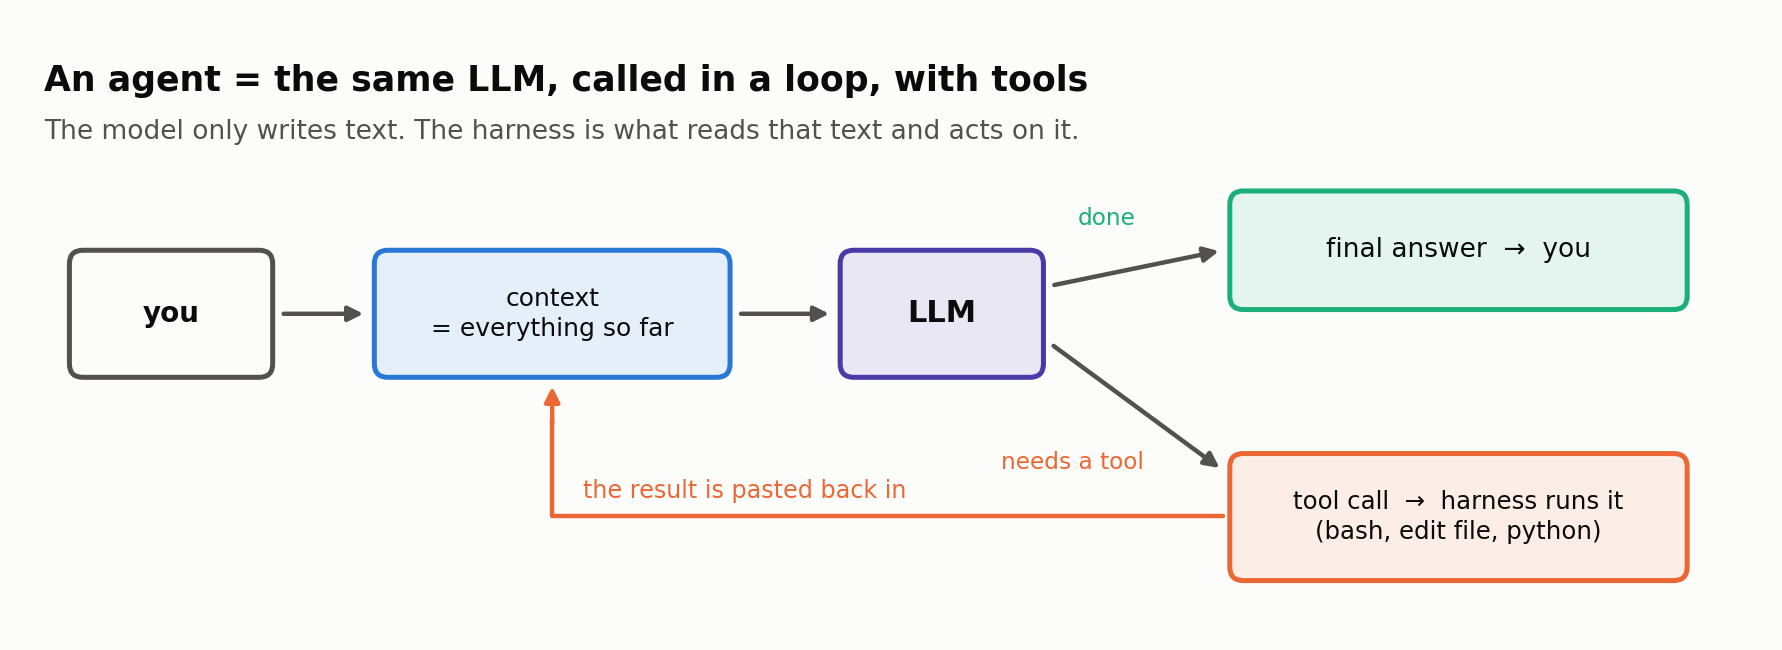
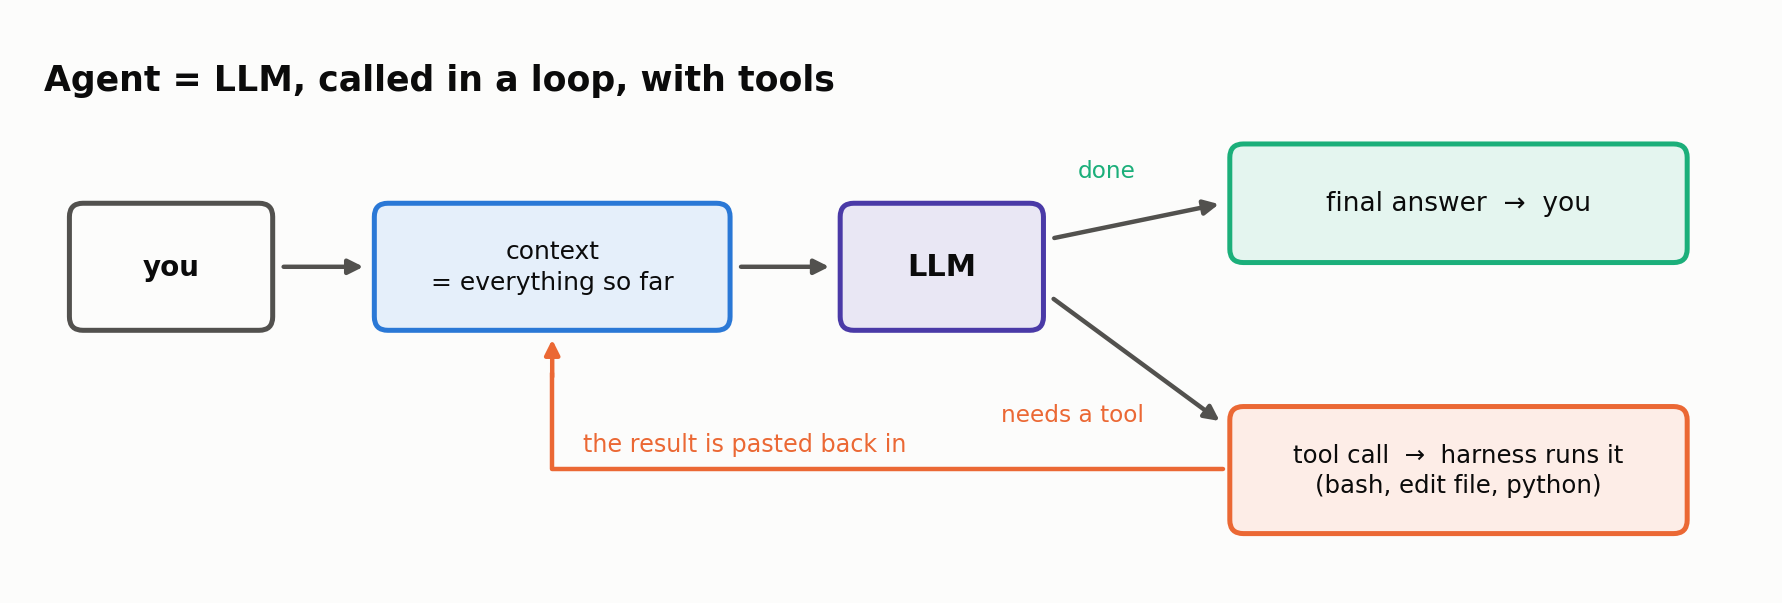
finalising 1st lecture

diff --git a/1st_lecture/make_figures.py b/1st_lecture/make_figures.py
@@ -110,14 +110,13 @@ def save(fig, name):
 # 1. next-token prediction
 # ======================================================================
 def fig_next_token():
-    fig, ax = canvas(11, 5.6)
+    fig, ax = canvas(11, 5.25)
     top = ax.get_ylim()[1]
-    title(ax, "Guessing the next token",
-          "…and then it does it again, with its own guess appended to the input.")
+    title(ax, "Guessing the next token")
 
     toks = ["The", " virial", " theorem", " relates", " kinetic", " and"]
     x = 6.0
-    y = top - 15
+    y = top - 12
     for t in toks:
         w = 2.6 + 1.62 * len(t)
         box(ax, x, y, w, 4.4, t.strip(), color=BLUE, fs=9.5)
@@ -293,10 +292,9 @@ def fig_dense_vs_moe():
 # 4. the context window
 # ======================================================================
 def fig_context_window():
-    fig, ax = canvas(11, 3.75)
+    fig, ax = canvas(11, 3.55)
     top = ax.get_ylim()[1]
-    title(ax, "The context window: everything the model can see, right now",
-          "One API call = one flat pile of tokens. There is no memory anywhere else.")
+    title(ax, "The context window: everything the model can see, right now")
 
     segs = [
         ("system prompt\n& rules", 7, BLUE),
@@ -476,10 +474,9 @@ def fig_tokens():
 # 9. the agent loop
 # ======================================================================
 def fig_agent_loop():
-    fig, ax = canvas(11, 3.65)
+    fig, ax = canvas(11, 3.35)
     top = ax.get_ylim()[1]
-    title(ax, "An agent = the same LLM, called in a loop, with tools",
-          "The model only writes text. The harness is what reads that text and acts on it.")
+    title(ax, "Agent = LLM, called in a loop, with tools")
 
     y1 = 13.5
     box(ax, 1.5, y1, 12, 7.5, "you", color=INK2, face=SURFACE, fs=10, weight="bold")
